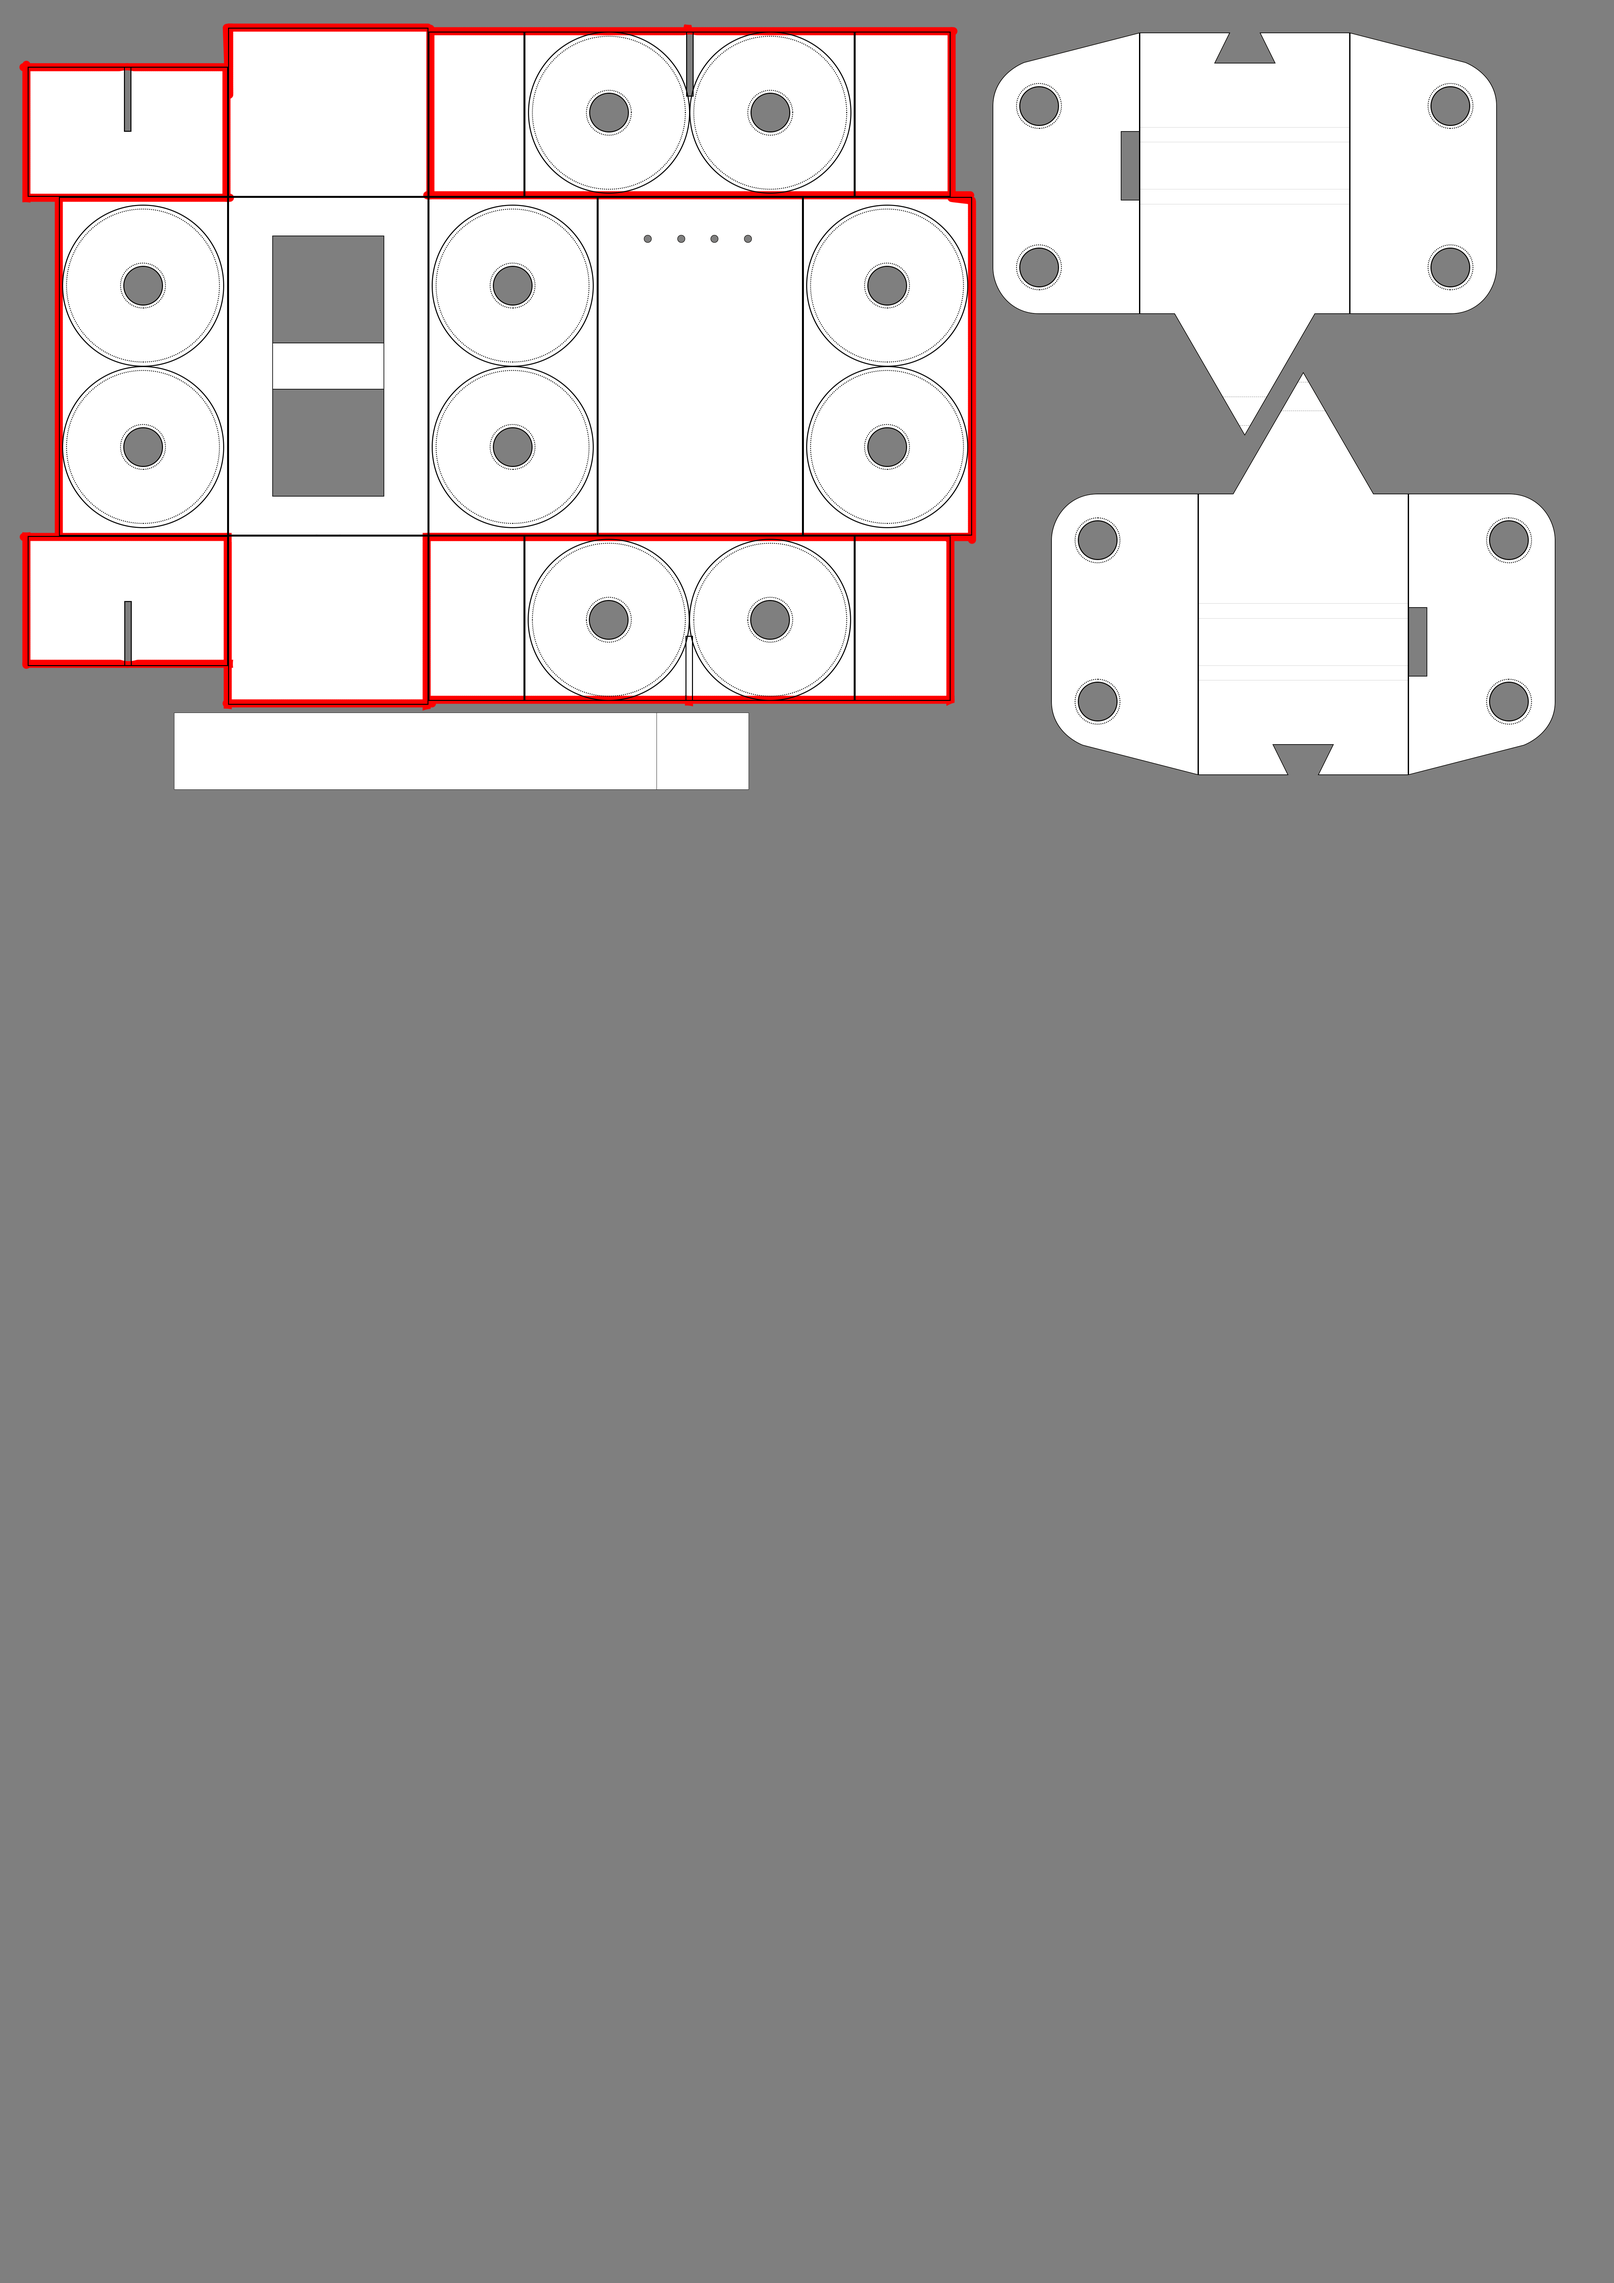
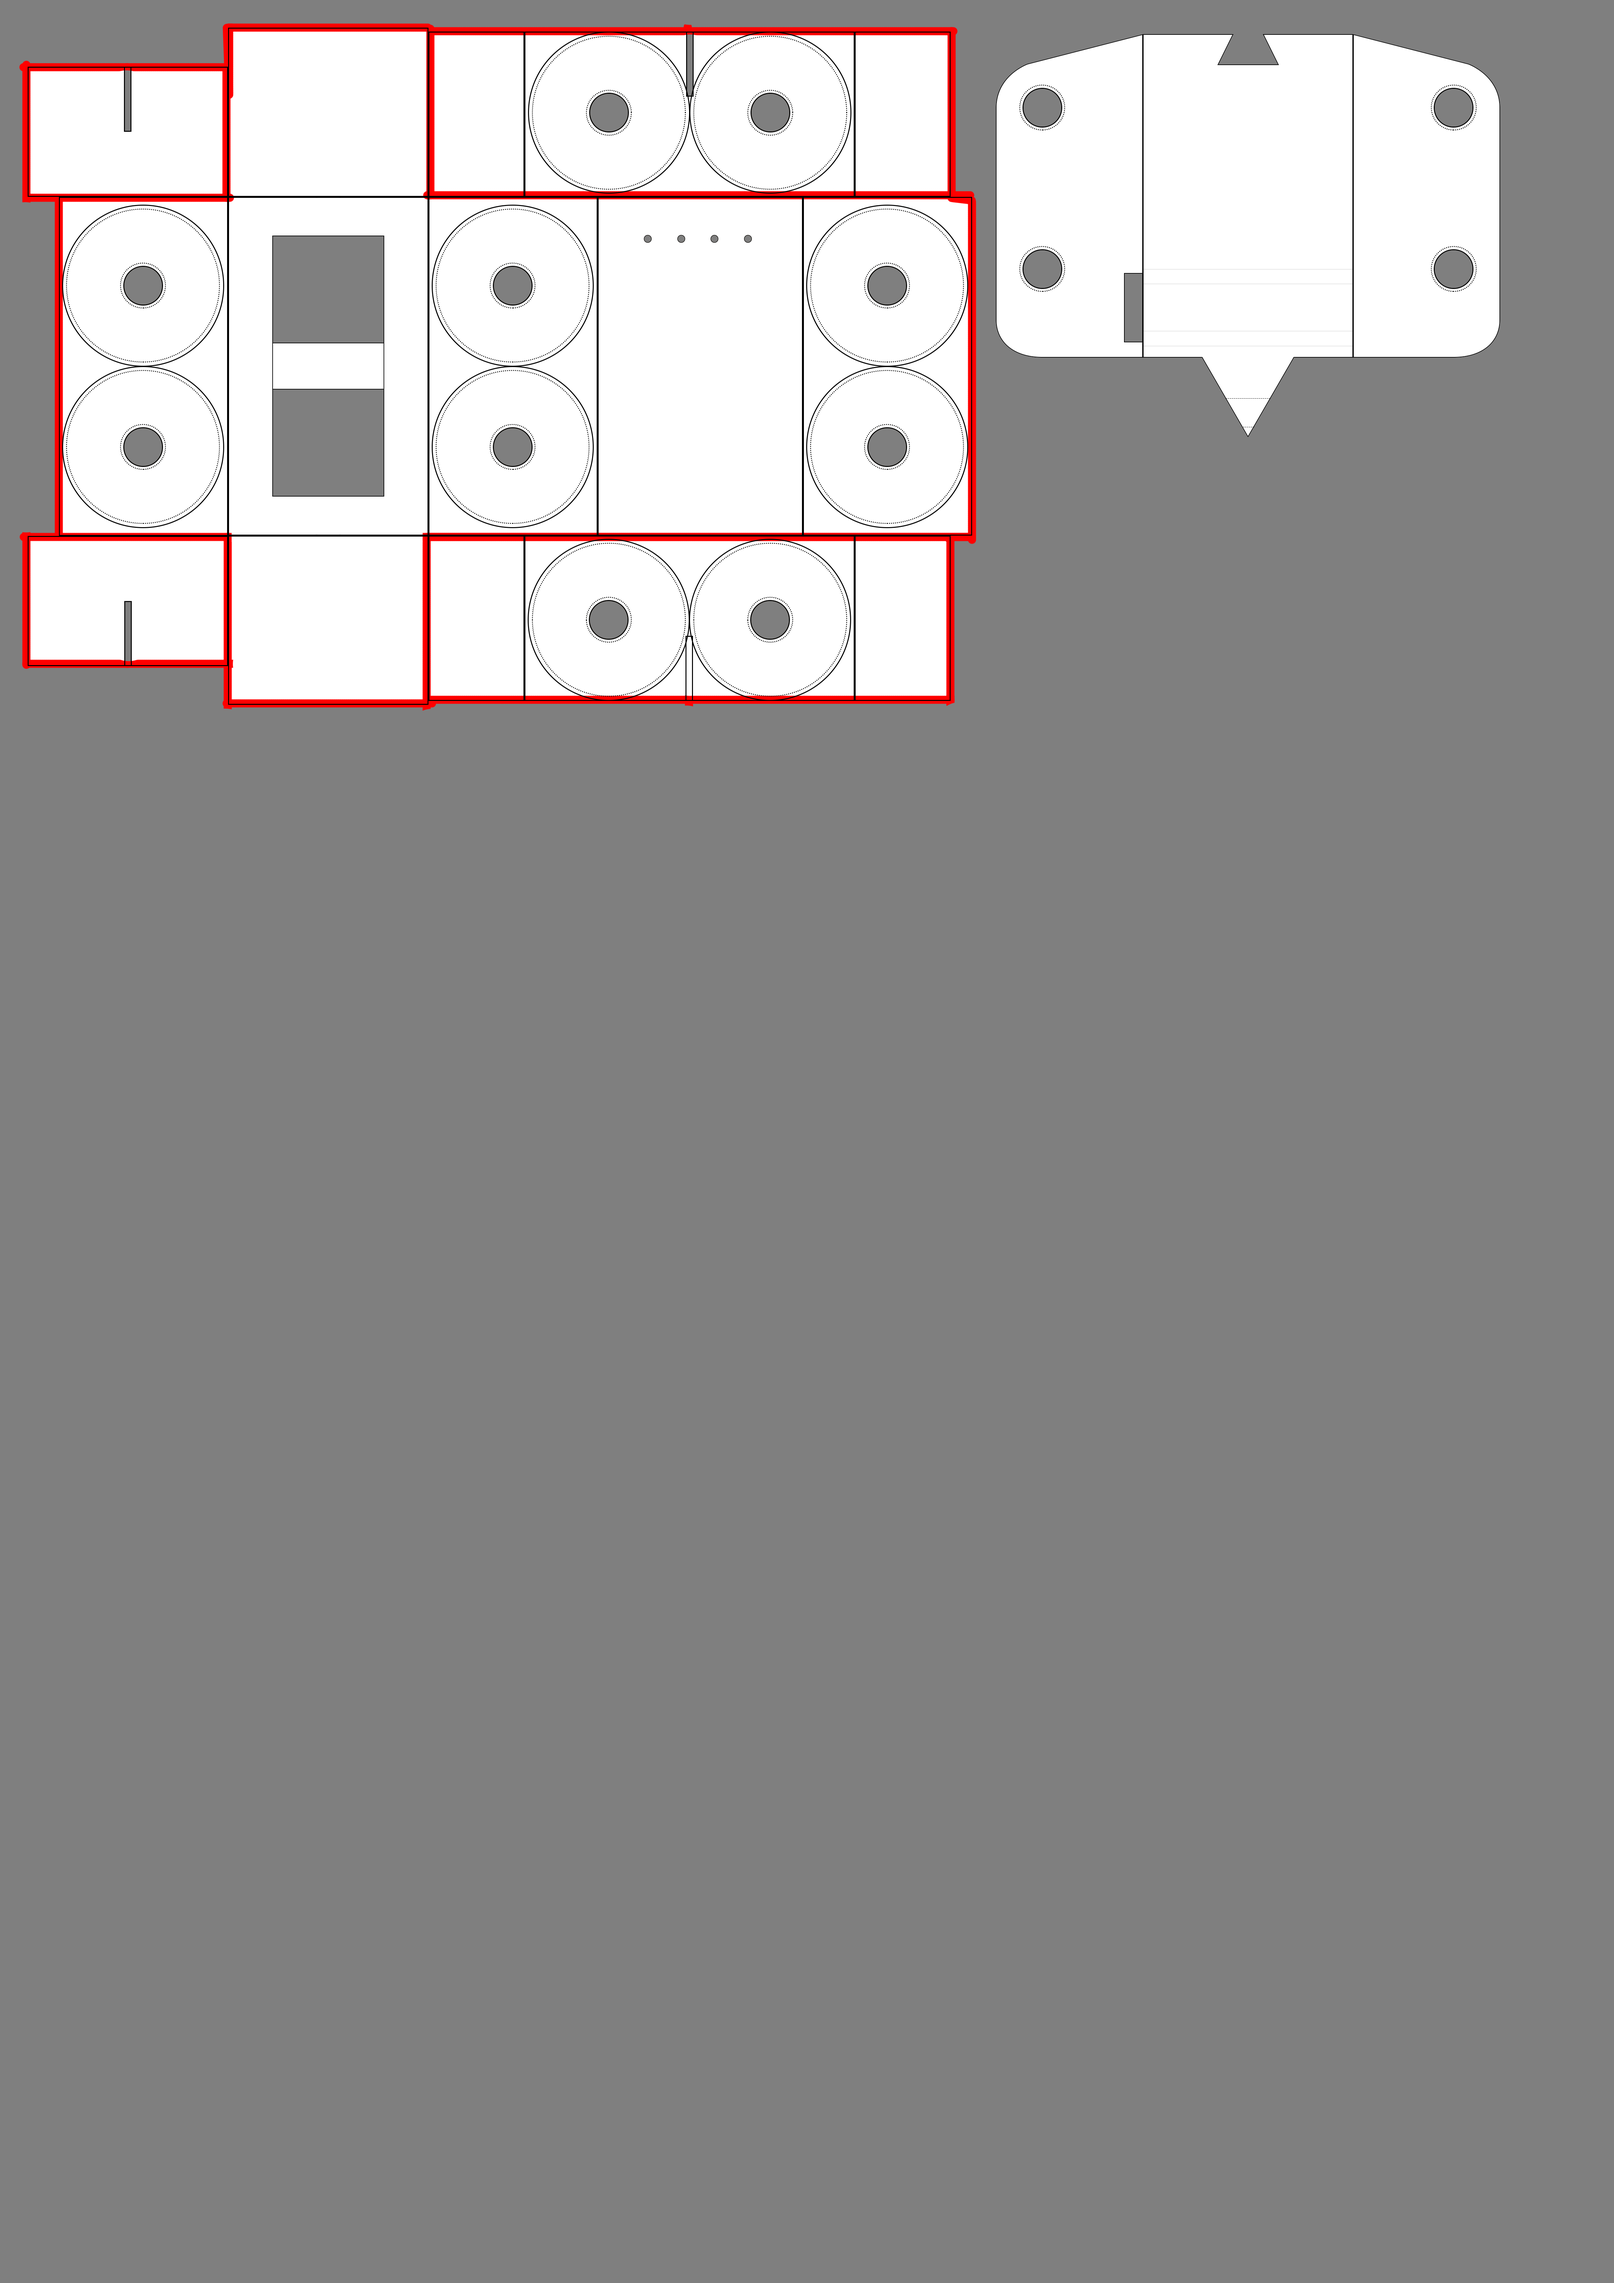
v2.0.7

diff --git a/README.md b/README.md
@@ -1,10 +1,6 @@
-## 缠花铺线器
+ ## 缠花铺线器
 
-<<<<<<< HEAD
 1、四股线永远平行
-=======
-1、线与线之间永远平行
->>>>>>> 324dfeed5dd9f4096801f03a4b29f1197d059868
 
 2、无需再理线和接线
 
@@ -52,23 +48,14 @@ CC-BY-NC-SA 3.0 开源许可介绍：https://creativecommons.org/licenses/by-nc-
 #### v2.0.3 2024-02-21 19:03:05
 
 	增加了线梳图纸
-<<<<<<< HEAD
 
 	加宽铺线器宽度，避免装入了微变形的梭心导致抽线卡住。
 
-#### v2.0.4 2024-02-21 19:03:05
+#### v2.0.4 ~ v2.0.6 2024-02-24 01:50:05
 
-	改进线夹
+	改进线梳线夹平台细节
 
-#### v2.0.5 2024-02-21 19:03:05
-	
-	改进线夹切口，取消盖子图纸
+#### v2.0.7 2024-02-26 02:29:43
+
+	改进线梳线夹平台细节
 
-#### v2.0.6 2024-02-21 19:03:05
-	
-	线梳线夹平台切口改进
-
-=======
-
-	加宽铺线器宽度，避免装入了微变形的梭心导致抽线卡住。
->>>>>>> 324dfeed5dd9f4096801f03a4b29f1197d059868
